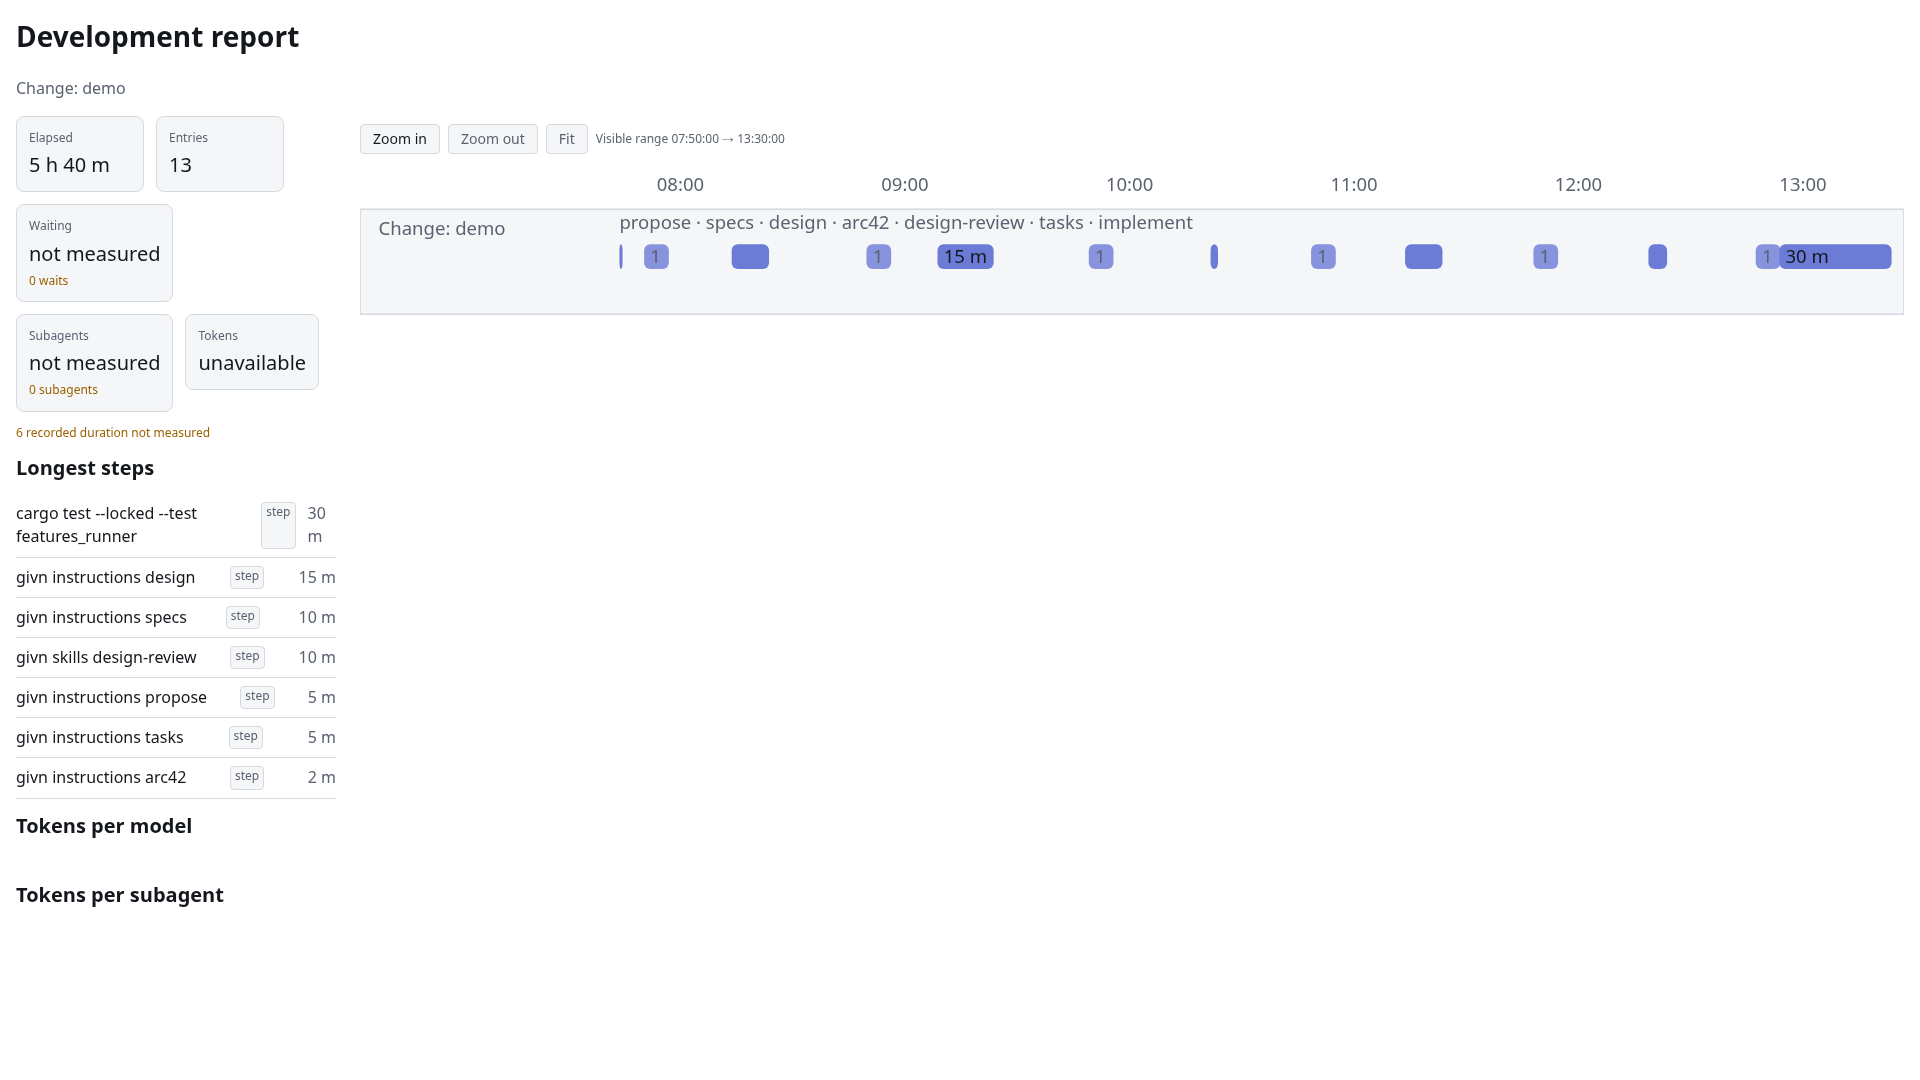
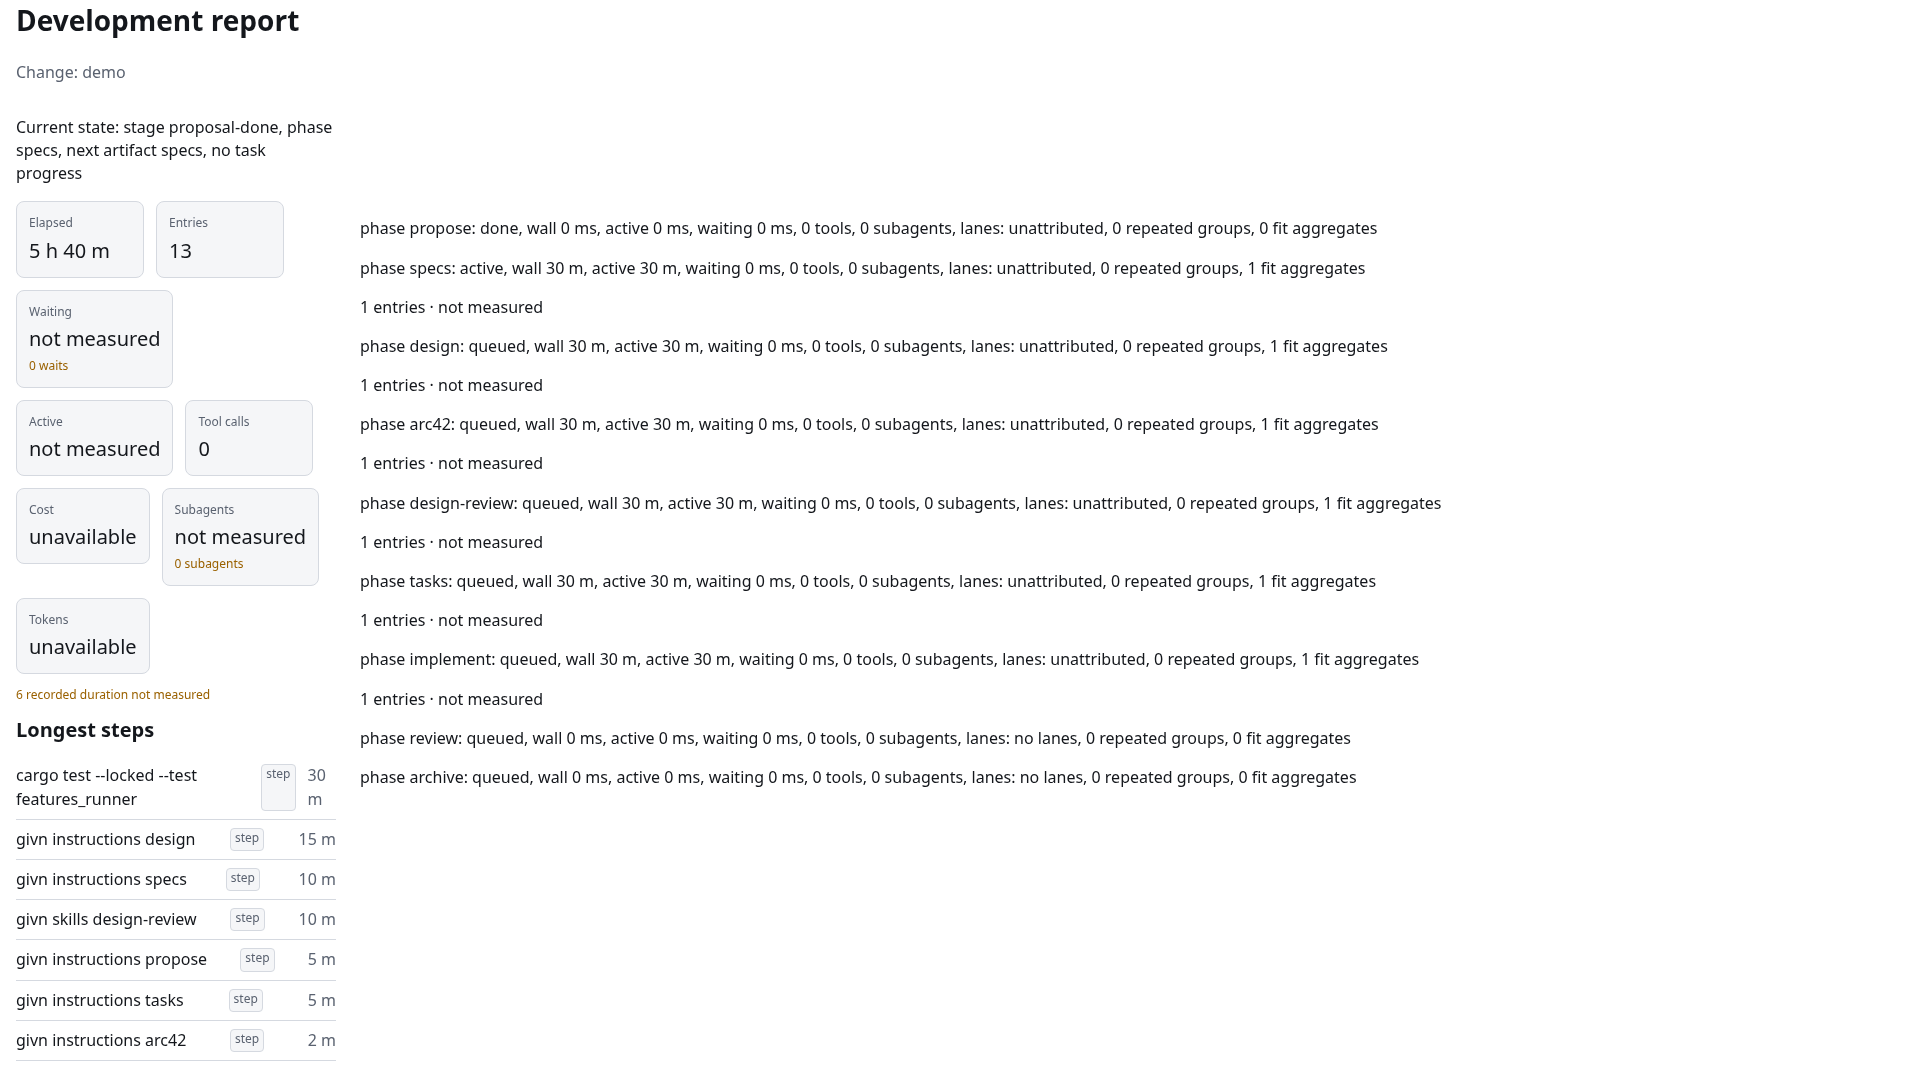
test(e2e): Givn records the development process of every change and ideation — each step it runs, the activity reported by every supported coding-agent harness, question waits, and token usage — and renders it as an interactive timeline report that opens in a browser.
Consumer generates the development report for a change

The written report's assertions read the hybrid workflow text view: the report
names the change workflow's nine phases in order, and the step recorded after
the tasks.md transition is placed in the implement phase. The evidence pair is
refreshed in place.

diff --git a/tests/steps/development_report_e2e_steps.rs b/tests/steps/development_report_e2e_steps.rs
@@ -107,24 +107,32 @@ fn report_path(world: &GivnWorld) -> PathBuf {
         .expect("the development report has not been generated yet")
 }
 
+/// The change workflow's nine phases, in the workflow's own order: what the
+/// report's text view must name, top to bottom.
+const WORKFLOW_PHASES: [&str; 9] = [
+    "propose",
+    "specs",
+    "design",
+    "arc42",
+    "design-review",
+    "tasks",
+    "implement",
+    "review",
+    "archive",
+];
+
 /// The phase names one written report draws, in document order: the visible
-/// text of every band row's phase line, split into the stage names it carries.
+/// text of every workflow phase line in the text view's stack.
 fn rendered_phases(document: &str) -> Vec<String> {
     document
-        .split("<text class=\"band-phases\"")
+        .split("<p class=\"workflow-phase\" data-phase=\"")
         .skip(1)
-        .flat_map(|phase| {
-            let content = phase
-                .split('>')
-                .nth(1)
-                .unwrap_or_else(|| panic!("a phase line carries no text: {phase}"));
-            content
-                .split("</text")
+        .map(|phase| {
+            phase
+                .split('"')
                 .next()
-                .unwrap_or_default()
-                .split(" · ")
-                .map(|name| name.trim().to_string())
-                .collect::<Vec<String>>()
+                .unwrap_or_else(|| panic!("a phase line carries no stage name: {phase}"))
+                .to_string()
         })
         .collect()
 }
@@ -215,34 +223,26 @@ fn command_prints_the_report_path(world: &mut GivnWorld) {
     state(world).report_path = Some(path);
 }
 
-#[then("the report file exists and names the recorded phases")]
-fn report_names_the_recorded_phases(world: &mut GivnWorld) {
-    let document = report_document(world);
-    let phases = rendered_phases(&document);
-    let transitions = &seeded(world).transitions;
-    // The report names one phase per stage the record reached: the opening
-    // stage, plus one stage per artifact transition the record carries.
-    assert_eq!(
-        phases.len(),
-        transitions.len() + 1,
-        "the report names {} phases for the record's {} artifact transitions: {phases:?}",
-        phases.len(),
-        transitions.len(),
+#[then("the report file exists and names the workflow phases")]
+fn report_names_the_workflow_phases(world: &mut GivnWorld) {
+    let path = report_path(world);
+    assert!(
+        path.is_file(),
+        "the report file does not exist: {}",
+        path.display()
     );
-    // The stage names themselves are the workflow's: the record's transitions
-    // are the workflow's own artifacts, so the phase line reads them in order.
+    let document = report_document(world);
+    // The text view names the change workflow's nine phases, in the workflow's
+    // own order — not only the phases the record happened to reach.
+    let phases = rendered_phases(&document);
     assert_eq!(
         phases,
-        vec![
-            "propose",
-            "specs",
-            "design",
-            "arc42",
-            "design-review",
-            "tasks",
-            "implement"
-        ],
-        "the report's phase names do not follow the record's artifact transitions {transitions:?}"
+        WORKFLOW_PHASES.to_vec(),
+        "the report does not name the nine workflow phases in order: {phases:?}"
+    );
+    assert!(
+        !document.contains("data-phases=\"recorded\""),
+        "the report still speaks of recorded phases instead of the workflow's"
     );
 }
 

diff --git a/tests/steps/development_timeline_support.rs b/tests/steps/development_timeline_support.rs
@@ -358,15 +358,13 @@ const STAGE_WORK: [(&str, &str, u64); 7] = [
     ),
 ];
 
-/// The record one report scenario renders: the written steps and the artifact
-/// transitions the scenario's own assertions name.
+/// The record one report scenario renders: the written steps the scenario's own
+/// assertions name.
 #[derive(Debug, Clone)]
 pub struct SeededReportHistory {
     /// The step recorded after the record's last transition: the one the
     /// `implement` phase's assertion names.
     pub post_transition_step: HistoryEntry,
-    /// The artifact transitions the record carries, in the order they appeared.
-    pub transitions: Vec<String>,
 }
 
 /// Seed the fixture project's record with a change's recorded history: one
@@ -396,11 +394,9 @@ pub fn seed_report_history(
         id: change.to_string(),
     };
     let mut history = SeededHistory::new();
-    let mut transitions = Vec::new();
     for (index, artifact) in WORKFLOW_ARTIFACTS[..=last].iter().enumerate() {
         let transition = history.point(&scope, "phase", artifact, TRANSITION_AT[index]);
         history.label(transition, artifact);
-        transitions.push(artifact.to_string());
     }
     let work = last + 1;
     assert!(
@@ -415,7 +411,6 @@ pub fn seed_report_history(
     let entries = history.seed(env);
     SeededReportHistory {
         post_transition_step: entries[steps[work]].clone(),
-        transitions,
     }
 }
 
